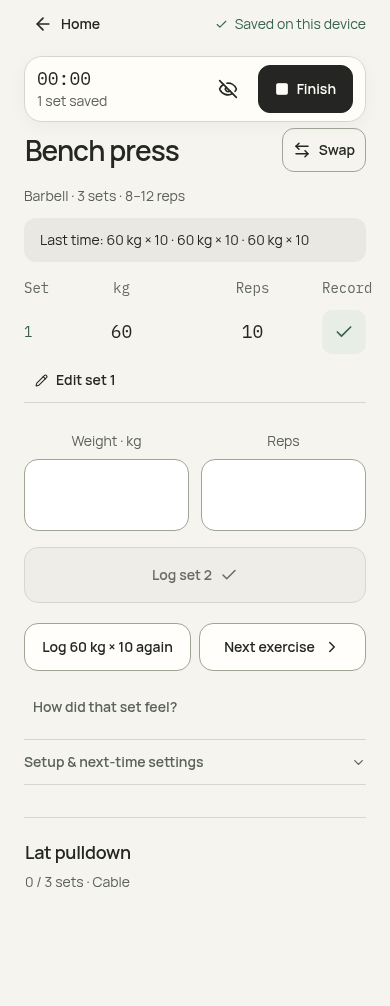
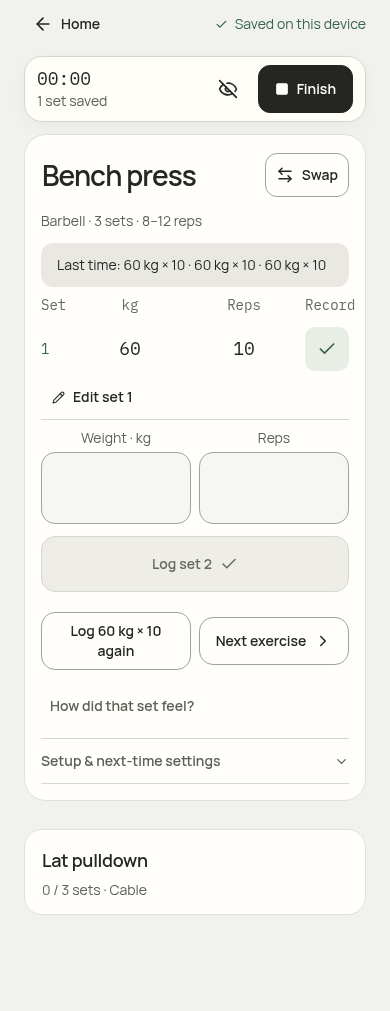
Organize training information into clear mobile cards

diff --git a/frontend/src/training-home.css b/frontend/src/training-home.css
@@ -1030,3 +1030,89 @@
     padding: 8px 10px;
   }
 }
+/* Content cards: one surface per task, rather than one box per datum. */
+.personal-app.two-home,
+.personal-app.two-workout {
+  --ds-canvas: #f1f2ed;
+  --ds-sheet: #fffefa;
+}
+.training-home {
+  display: grid;
+  gap: 16px;
+}
+.training-home
+  > :is(.home-next, .home-attendance, .home-performance, .home-recent) {
+  margin: 0;
+  padding: 20px;
+  border: 1px solid #e0e2d9;
+  border-radius: 22px;
+  background: var(--ds-sheet);
+}
+.training-home .home-next {
+  border-top: 0;
+}
+.training-home .home-next-heading {
+  padding-top: 0;
+}
+.training-home .home-muscle-list {
+  border: 0;
+}
+.training-home .home-muscle-row {
+  background: transparent;
+}
+.training-home .home-recent-row {
+  border-bottom: 0;
+}
+.training-home .home-caption:last-child {
+  margin-bottom: 0;
+}
+.training-home .home-visit-grid {
+  gap: 5px;
+}
+.two-workout .personal-exercise-stack {
+  gap: 12px;
+}
+.two-workout .nb-exercise-card.is-active.ds-surface {
+  background: var(--ds-sheet);
+  border: 1px solid #e0e2d9;
+  border-radius: 22px;
+  padding: 16px;
+}
+.two-workout .nb-exercise-card.is-active .ds-set-entry .ds-set-grid-row {
+  padding-top: 4px;
+  gap: 8px;
+}
+.two-workout .nb-exercise-card.is-active .ds-entry-label {
+  margin-bottom: 4px;
+}
+.two-workout .nb-exercise-card.is-active .nb-last-time {
+  margin-bottom: 8px;
+}
+.two-workout .nb-exercise-card.is-active .nb-saved-ledger {
+  margin-bottom: 4px;
+}
+.two-workout .nb-exercise-card.is-active .ds-input {
+  background: #f6f7f2;
+}
+.two-workout .nb-exercise-card.is-collapsed {
+  padding: 8px 16px;
+  background: var(--ds-sheet);
+  border: 1px solid #e0e2d9;
+  border-radius: 18px;
+}
+.nb-session-card {
+  border-color: #d3d7cb;
+  margin-bottom: 12px;
+}
+@media (max-width: 350px) {
+  .training-home
+    > :is(.home-next, .home-attendance, .home-performance, .home-recent) {
+    padding: 16px;
+  }
+  .two-workout .nb-exercise-card.is-active.ds-surface {
+    padding: 12px;
+  }
+  .two-workout .nb-exercise-card.is-collapsed {
+    padding: 6px 12px;
+  }
+}

diff --git a/docs/CARD-LAYOUT.md b/docs/CARD-LAYOUT.md
@@ -1,0 +1,9 @@
+# Card organization
+
+Journey: on Home, recognize the next/resumable workout, start it, then glance at attendance and progress when useful. During training, the persistent session card owns timer and Finish; the active exercise card owns its setup/reference, exact logging, recent recorded sets and correction. Other movements are tappable compact cards. Secondary setup stays collapsed. No extra navigation or stored-data change.
+
+Home has four clear content groups: workout launch, attendance, progress and latest workout. Progress rows stay inside one card rather than nesting another card around every number. Workout has one session card, one active exercise card, then compact movement cards. White surfaces sit on a quiet neutral canvas with consistent rounding and thin borders. Padding replaces existing excess spacing; it must not push Log/Next out of the narrow long-session viewport.
+
+Acceptance: maintain two primary screens, direct action labels, native accessible controls, sticky Finish, timer preference, actual logging and safe confirmations. Verify320/390 mobile widths, sixth-set draft with previous history, full-workout path, timer card and production offline shell. Screenshots use isolated synthetic history.
+
+Verified production build and five targeted full-workout/session-card browser tests passed. Real React captures and overflow checks passed at320/390px for Home and Workout. In the returning-history sixth-set case,320×740 keeps Log at y587–643 and Next at y663–721. Sticky Finish, elapsed preference, corrections and reload recovery remain intact. No external requests or page errors in capture review. Current captures are in `design/production-redesign/`.

diff --git a/docs/SPRINT-1-BOARD.md b/docs/SPRINT-1-BOARD.md
@@ -74,3 +74,7 @@ The dot direction is now integrated into the actual React logger, following a fr
 ## Session hierarchy refinement
 
 Completed persistent session card with a strong Finish action, wall-clock elapsed time derived from saved start, and remembered hide/show preference. Secondary setup remains collapsed; inactive exercise tap targets are larger. `SESSION-CARD.md` records the full journey and verification. Workout data schema and saving semantics are unchanged.
+
+## Card-based information organization
+
+Completed four Home content cards (launch, attendance, progress, latest workout), one active exercise worksheet card, and compact selectable exercise cards. The existing sticky session card remains distinct. Rebalanced padding so the new surfaces do not push logging/navigation out of small-screen view. Build, five targeted workflow/timer tests and320/390 real-app layout checks passed. No data-model changes. See `CARD-LAYOUT.md`.
